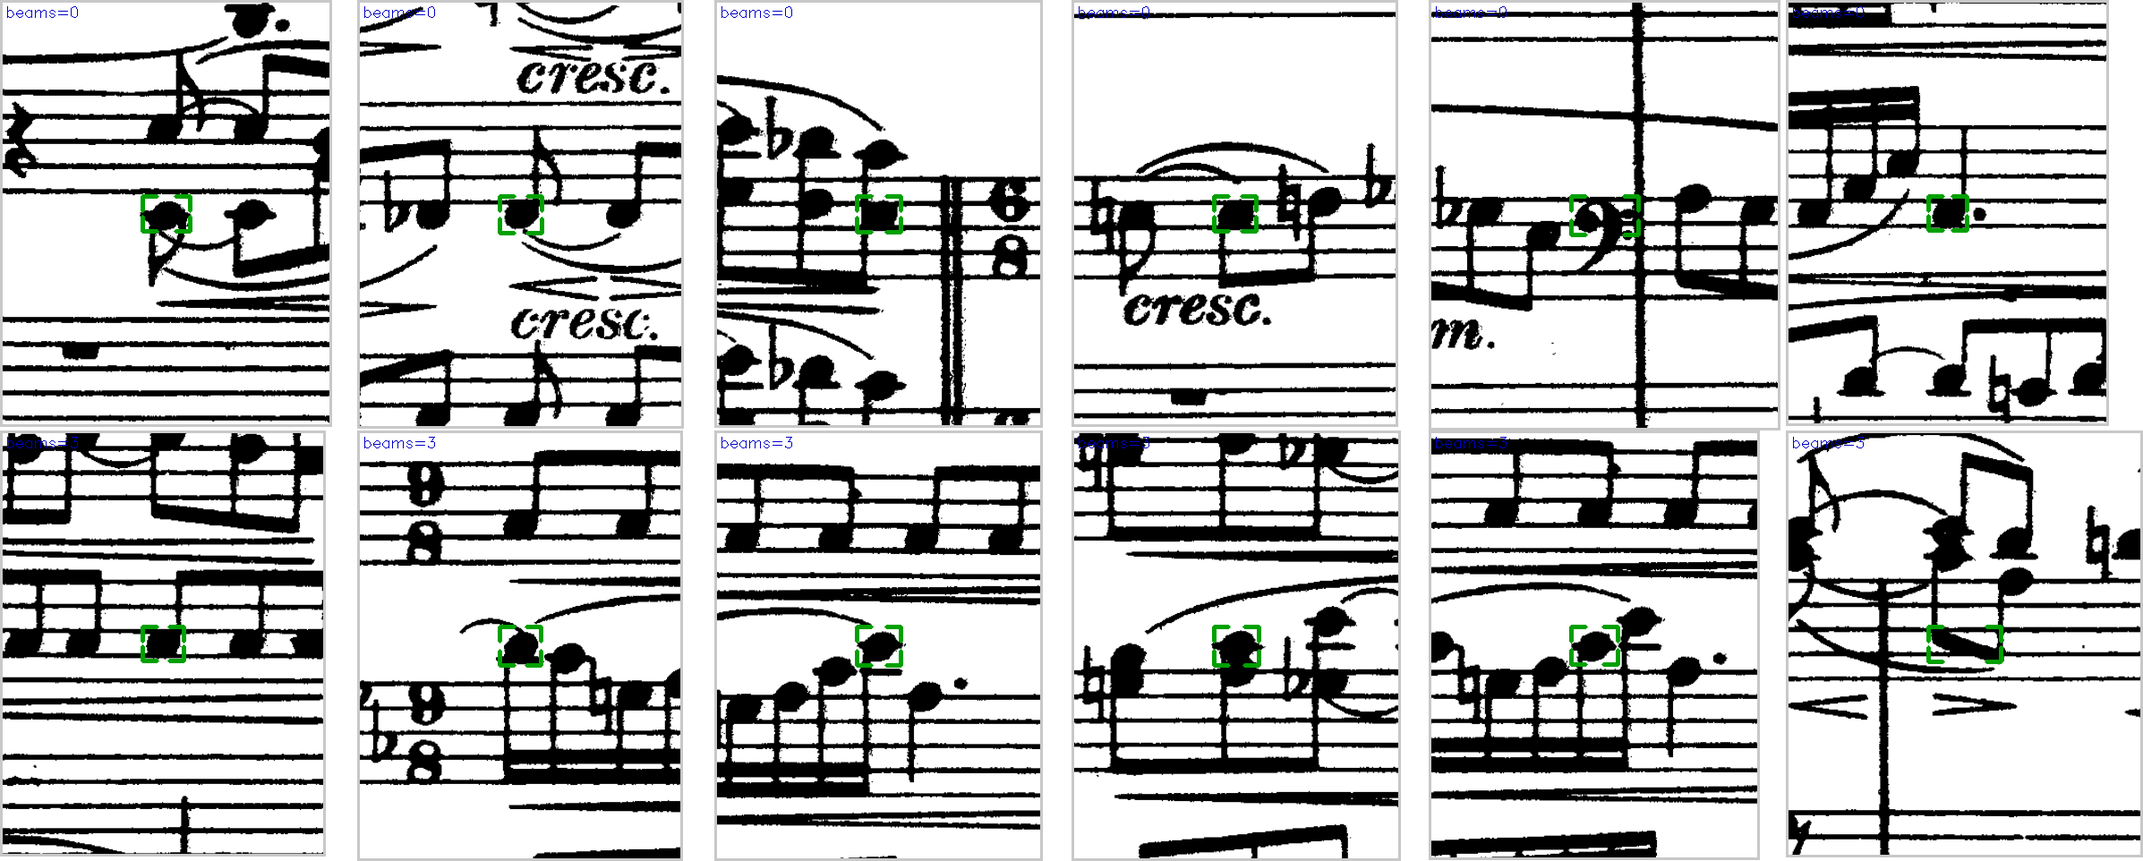
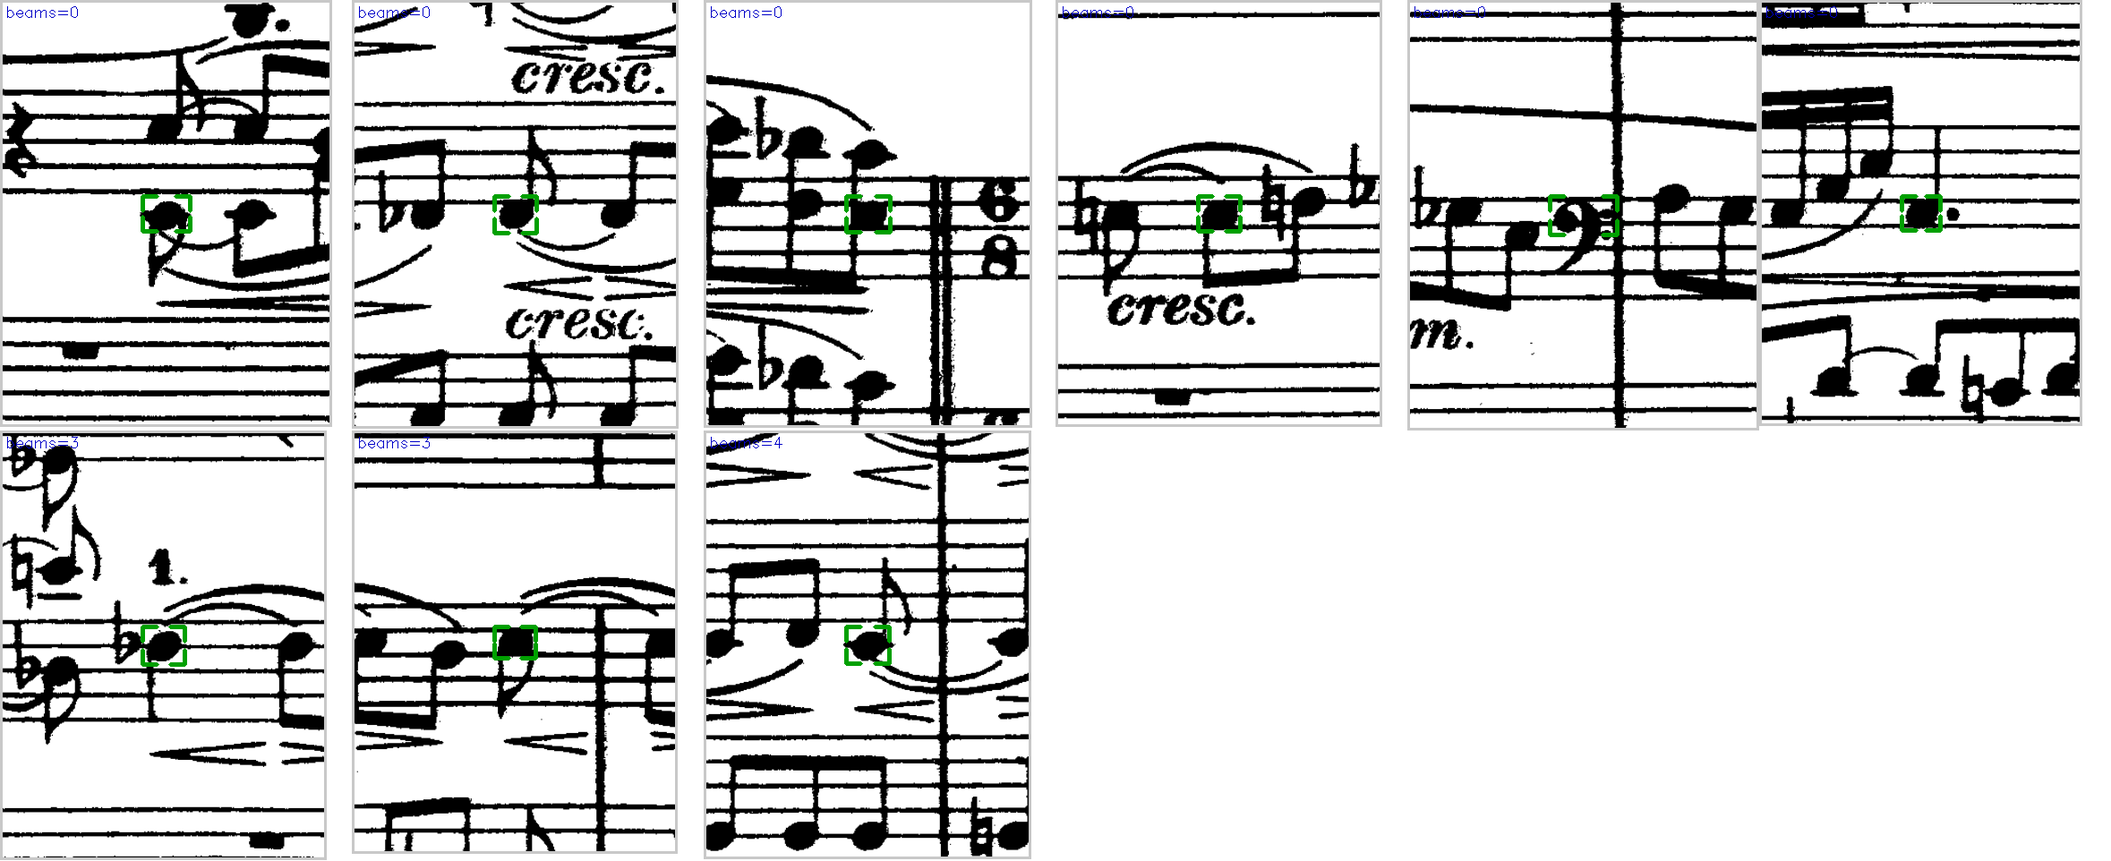
ROADMAP 2.38b: consult Q.BEAM_STEM_JOIN for CERTAIN strokes too
Follow-up print check after 2.38 merged (b2aa2fd1): of 165 duration
verdicts DECIDED using only NOT-JOINED beam witnesses on Brahms p1, the
final beam_levels were wrong at almost every count above 1 -- level 1
106 (~11/12 right), level 2 14 (6/6 wrong, single-beam 8ths read as
16ths), level 3-4 26 (nearly all wrong, 8ths/16ths read as 32nds), level
0 19 (about half wrong).

Cause: _beam_levels never consulted the ink witness for a CERTAIN stroke
(exact column overlap, or already stem-joined by box), by design, so the
ink reader could never override box-geometry certainty. But box-only
certainty can itself be wrong -- a stroke whose box happens to overlap
this stem's column is not proof it is this stem's own mark. Before 2.38,
an extra POSSIBLE stroke often kept possible > certain, so the note
stayed NARROWED despite the wrong certain count underneath; 2.38's own
NOT-JOINED fixes correctly dropped those extra possible strokes, exposing
the wrong certain counts as DECIDED, wrong, durations.

Fix: _beam_levels now returns a third element, certain_conflicts -- the
ids of any CERTAIN stroke whose Q.BEAM_STEM_JOIN witness reads NOT
JOINED. GATHER already files a row per (stem, stroke, end) for the whole
cross product in a cell, and _beam_join_witness already builds its
witness dict over every stroke regardless of branch, so no GATHER change
was needed. In adjudicate_duration, a non-empty certain_conflicts NARROWS
(beam_certain_not_joined, checked first) between the level as box
[…]

diff --git a/tools/omr/tests/test_staged_beam_stem_join.py b/tools/omr/tests/test_staged_beam_stem_join.py
@@ -416,41 +416,58 @@ class TestBeamLevelsWitness(unittest.TestCase):
 
     def test_no_witness_is_the_UNCHANGED_baseline(self):
         b = _padded_only_row()
-        certain, possible = rhythm._beam_levels([b], 150, 20, ())
-        self.assertEqual((certain, possible), (0, 1))
+        certain, possible, conflicts = rhythm._beam_levels([b], 150, 20, ())
+        self.assertEqual((certain, possible, conflicts), (0, 1, ()))
 
     def test_a_JOINED_witness_promotes_the_possible_stroke_to_certain(self):
         b = _padded_only_row()
-        certain, possible = rhythm._beam_levels(
+        certain, possible, conflicts = rhythm._beam_levels(
             [b], 150, 20, (), join_witness={"b1": True})
-        self.assertEqual((certain, possible), (1, 1))
+        self.assertEqual((certain, possible, conflicts), (1, 1, ()))
 
     def test_a_NOT_JOINED_witness_drops_the_stroke_entirely(self):
         b = _padded_only_row()
-        certain, possible = rhythm._beam_levels(
+        certain, possible, conflicts = rhythm._beam_levels(
             [b], 150, 20, (), join_witness={"b1": False})
-        self.assertEqual((certain, possible), (0, 0))
+        self.assertEqual((certain, possible, conflicts), (0, 0, ()))
 
     def test_a_DECLINED_witness_None_leaves_it_possible(self):
         b = _padded_only_row()
-        certain, possible = rhythm._beam_levels(
+        certain, possible, conflicts = rhythm._beam_levels(
             [b], 150, 20, (), join_witness={"b1": None})
-        self.assertEqual((certain, possible), (0, 1))
+        self.assertEqual((certain, possible, conflicts), (0, 1, ()))
 
-    def test_POSITIVE_CONTROL_an_already_CERTAIN_stroke_is_UNAFFECTED(self):
+    def test_POSITIVE_CONTROL_an_already_CERTAIN_stroke_COUNT_is_UNAFFECTED(self):
         """⚠ THE CONTROL. A stroke whose box already covers the centre, or
-        that a stem already joins, must not move whatever the witness says
-        -- box-geometry certainty is never overridden by this reader."""
+        that a stem already joins, must not move its COUNT whatever the
+        witness says -- box-geometry certainty is never silently overridden
+        (dropped or promoted) by this reader. A NOT-JOINED reading is
+        instead flagged in `certain_conflicts` (ROADMAP 2.38b) for the
+        caller to turn into a NARROW, never a count change here."""
         exact = _Row("b1", 100, 200)          # covers x_center=150 exactly
-        certain, possible = rhythm._beam_levels(
+        certain, possible, conflicts = rhythm._beam_levels(
             [exact], 150, 20, (), join_witness={"b1": False})
         self.assertEqual((certain, possible), (1, 1))
+        self.assertEqual(conflicts, ("b1",))
 
         stem_joined = _Row("b2", 400, 500)    # box FAR from the centre...
-        certain, possible = rhythm._beam_levels(
+        certain, possible, conflicts = rhythm._beam_levels(
             [stem_joined], 150, 20, (stem_joined,),   # ...but stem-joined
             join_witness={"b2": False})
         self.assertEqual((certain, possible), (1, 1))
+        self.assertEqual(conflicts, ("b2",))
+
+    def test_a_CERTAIN_stroke_JOINED_has_no_conflict(self):
+        exact = _Row("b1", 100, 200)
+        certain, possible, conflicts = rhythm._beam_levels(
+            [exact], 150, 20, (), join_witness={"b1": True})
+        self.assertEqual((certain, possible, conflicts), (1, 1, ()))
+
+    def test_a_CERTAIN_stroke_DECLINED_has_no_conflict(self):
+        exact = _Row("b1", 100, 200)
+        certain, possible, conflicts = rhythm._beam_levels(
+            [exact], 150, 20, (), join_witness={"b1": None})
+        self.assertEqual((certain, possible, conflicts), (1, 1, ()))
 
 
 # ─────────────────────────────────────────────────────────────────────────────
@@ -559,12 +576,16 @@ class TestBeamStemJoinWiresIntoDuration(unittest.TestCase):
         adjudicate.run(log)
         self.assertIn(join_row.id, log.verdict(Q.DURATION, g).basis)
 
-    def test_POSITIVE_CONTROL_a_box_CERTAIN_join_is_unmoved_by_the_ink(self):
-        """⚠ THE POSITIVE CONTROL. The identical stroke, but the stem now
-        physically reaches it (box overlap) -- already CERTAIN before this
-        lane existed -- and a CONTRADICTING ink witness (`found=False`) must
-        not move it: box-geometry certainty is never overridden by the ink
-        reader."""
+    def test_a_CERTAIN_join_the_ink_reads_NOT_JOINED_is_NARROWED(self):
+        """⚠⚠ THE BUG, ROADMAP 2.38b (manager print check of 3a5bbb67 /
+        b2aa2fd1 merged 2.38: Brahms p1, ~50 of 165 `duration` verdicts
+        decided using only a NOT-JOINED witness read the wrong
+        `beam_levels`). Before 2.38b this exact fixture DECIDED at the
+        CERTAIN count unconditionally -- a stroke a stem's own box happens
+        to overlap is not proof the ink agrees, and where it does not, the
+        box-only count may itself be the wrong one (a stray overlap with a
+        stroke that is not this stem's). Two witnesses disagreeing about a
+        CERTAIN stroke must NARROW, never decide either way (rule 8)."""
         log = Log()
         beam_row = _beam(log, y=40, x0=60, x1=140)
         g = R.glyph(0, 0, 0, 0, 0)
@@ -575,6 +596,46 @@ class TestBeamStemJoinWiresIntoDuration(unittest.TestCase):
         stem_row = _stem(log, x=135, y=38, h=60)     # 38..98: meets y=40
         _beam_stem_join(log, stem_row_id=stem_row.id, beam_row_id=beam_row.id,
                         end="top", found=False)
+        adjudicate.run(log)
+        v = log.verdict(Q.DURATION, g)
+        self.assertEqual(v.outcome, Outcome.NARROWED)
+        self.assertEqual(v.reason, "beam_certain_not_joined")
+        self.assertEqual(v.detail["certain_conflicts"], 1)
+        levels = sorted(c.value["beam_levels"] for c in v.candidates)
+        self.assertEqual(levels, [0, 1])   # with the stroke, and without it
+
+    def test_POSITIVE_CONTROL_a_CERTAIN_join_the_ink_JOINS_is_DECIDED(self):
+        """The same fixture, but the ink AGREES (`found=True`) -- no
+        disagreement, decides exactly as it always did."""
+        log = Log()
+        beam_row = _beam(log, y=40, x0=60, x1=140)
+        g = R.glyph(0, 0, 0, 0, 0)
+        log.observe(g, Q.NOTEHEAD_CLASS, "noteheadBlack",
+                    reader=READERS.DETECTOR, frame="cell:0", score=0.9)
+        log.observe(g, Q.GLYPH_BOX, ("noteheadBlack", 135, 90, 20, 16),
+                    reader=READERS.DETECTOR, frame="cell:0", score=0.9)
+        stem_row = _stem(log, x=135, y=38, h=60)
+        _beam_stem_join(log, stem_row_id=stem_row.id, beam_row_id=beam_row.id,
+                        end="top", found=True)
+        adjudicate.run(log)
+        v = log.verdict(Q.DURATION, g)
+        self.assertEqual(v.outcome, Outcome.DECIDED)
+        self.assertEqual(v.value["beats"], 0.5)
+        self.assertEqual(v.detail["levels_certain"], 1)
+
+    def test_POSITIVE_CONTROL_a_CERTAIN_join_NO_WITNESS_is_DECIDED(self):
+        """The same fixture, but GATHER never reached this pair (no
+        `Q.BEAM_STEM_JOIN` row at all, declined/absent) -- no evidence
+        either way, so box geometry alone still decides, same as always
+        (rule 8: declined never defaults, in EITHER direction)."""
+        log = Log()
+        beam_row = _beam(log, y=40, x0=60, x1=140)
+        g = R.glyph(0, 0, 0, 0, 0)
+        log.observe(g, Q.NOTEHEAD_CLASS, "noteheadBlack",
+                    reader=READERS.DETECTOR, frame="cell:0", score=0.9)
+        log.observe(g, Q.GLYPH_BOX, ("noteheadBlack", 135, 90, 20, 16),
+                    reader=READERS.DETECTOR, frame="cell:0", score=0.9)
+        _stem(log, x=135, y=38, h=60)
         adjudicate.run(log)
         v = log.verdict(Q.DURATION, g)
         self.assertEqual(v.outcome, Outcome.DECIDED)

diff --git a/tools/omr/staged/adjudicators/rhythm.py b/tools/omr/staged/adjudicators/rhythm.py
@@ -1192,33 +1192,50 @@ def _beam_levels(beams, x_center, width, joined=(), join_witness=None):
     the first opportunity.
 
     ⚠ ROADMAP 2.38: `join_witness` (`{stroke id: True/False/None}`, from
-    `_beam_join_witness`) is consulted ONLY for a stroke this test would
-    otherwise count as merely POSSIBLE (the padded column match, never the
-    exact-overlap or stem-joined ones -- CERTAIN stays certain on box
-    geometry alone, whatever the ink says, the positive control this rule
-    must never move). Where the ink-continuity reader says the stem's own
-    ink DOES run into this stroke, it is promoted to CERTAIN; where it says
-    it does NOT, the stroke is dropped from the count entirely (neither
-    certain nor possible -- rule 8's "count the level"/"drop it", never a
-    silent guess); where the reader never reached it (`None`), the stroke
-    stays exactly as box geometry alone would have called it, and the note
-    stays narrowed -- the same "declined never defaults" rule 8 states for
-    every other ink witness in this module.
+    `_beam_join_witness`) is consulted for a stroke this test would
+    otherwise count as merely POSSIBLE (the padded column match). Where the
+    ink-continuity reader says the stem's own ink DOES run into this
+    stroke, it is promoted to CERTAIN; where it says it does NOT, the
+    stroke is dropped from the count entirely (neither certain nor
+    possible -- rule 8's "count the level"/"drop it", never a silent
+    guess); where the reader never reached it (`None`), the stroke stays
+    exactly as box geometry alone would have called it, and the note stays
+    narrowed -- the same "declined never defaults" rule 8 states for every
+    other ink witness in this module.
+
+    ⚠⚠ ROADMAP 2.38b: A CERTAIN stroke (exact column overlap, or already
+    stem-joined by box) is NEVER dropped for a NOT-JOINED ink reading --
+    that was measured and refused (Brahms p1 print check: `duration`
+    verdicts DECIDED using only a NOT-JOINED witness read the wrong level
+    ~50 of 165 times, because dropping a CERTAIN stroke silently promoted
+    a WRONG box-only count -- some certain attributions were already wrong
+    before this lane existed, box overlap with a stroke that is not this
+    stem's, and only stayed NARROWED before because an extra, now-correctly
+    -dropped POSSIBLE stroke kept `possible > certain`). A certain stroke
+    the ink reads NOT JOINED is instead returned in `certain_conflicts` --
+    a DISAGREEMENT between two witnesses, which `adjudicate_duration`
+    turns into a NARROW (`beam_certain_not_joined`), never a silent count
+    change here. JOINED or declined (`None`) leaves a certain stroke
+    exactly as before -- unaffected, the positive control this rule must
+    never move.
     """
     joined_ids = {b.id for b in joined}
     if x_center is None:
         # ⚠ No box means no head to attach a stem to either, so `joined` is
         # empty here by construction -- it is read rather than assumed zero so
         # the two callers cannot drift apart.
-        return (len(joined_ids), len(joined_ids))
+        return (len(joined_ids), len(joined_ids), ())
     pad = (width or 0.0) * BEAM_EDGE_TOLERANCE_WIDTHS
     certain = possible = 0
+    certain_conflicts = []
     for b in beams:
         x0 = b.detail.get("x0", 0)
         x1 = b.detail.get("x1", 0)
         if b.id in joined_ids or x0 <= x_center <= x1:
             certain += 1
             possible += 1
+            if (join_witness or {}).get(b.id) is False:
+                certain_conflicts.append(b.id)
         elif x0 - pad <= x_center <= x1 + pad:
             witness = (join_witness or {}).get(b.id)
             if witness is True:
@@ -1228,7 +1245,7 @@ def _beam_levels(beams, x_center, width, joined=(), join_witness=None):
                 continue
             else:
                 possible += 1
-    return (certain, possible)
+    return (certain, possible, tuple(certain_conflicts))
 
 
 def _beam_join_witness(ev: Evidence, cell, kept, own_stems, side
@@ -1446,6 +1463,7 @@ def _stem_tip_flag_ink(ev: Evidence, cell, own_stems, side: Optional[str]
            Q.GLYPH_OWNER, Q.BEAM_STEM_JOIN),
     reasons=("head_and_marks", "beams_ambiguous", "flags_disagree",
              "flag_ink_unread", "beam_discounted_uncertain",
+             "beam_certain_not_joined",
              "head_fill_from_ink", "no_notehead",
              "unknown_head", "rest_class", "unreadable_rest",
              "rest_slot_contradicts_class", "rest_stands_where_no_rest_hangs"),
@@ -1574,8 +1592,8 @@ def adjudicate_duration(ev: Evidence) -> Ruling:
     join_witness, join_used = _beam_join_witness(ev, cell, kept, own_stems,
                                                  side)
     used.extend(r.id for r in join_used)
-    certain, possible = _beam_levels(kept, x_center, head_width, joined,
-                                     join_witness)
+    certain, possible, certain_conflicts = _beam_levels(
+        kept, x_center, head_width, joined, join_witness)
     # ⚠⚠ RULE 8: DROPPING A STROKE MAY NOT BY ITSELF MAKE A NOTE UNMARKED.
     # Where the strokes past the tip were the ONLY thing over this head, and
     # its stem carries no beam and no flag once they go, the note would fall
@@ -1592,8 +1610,8 @@ def adjudicate_duration(ev: Evidence) -> Ruling:
         join_witness, join_used = _beam_join_witness(ev, cell, kept,
                                                       own_stems, side)
         used.extend(r.id for r in join_used)
-        certain, possible = _beam_levels(kept, x_center, head_width, joined,
-                                         join_witness)
+        certain, possible, certain_conflicts = _beam_levels(
+            kept, x_center, head_width, joined, join_witness)
     levels = certain
     used.extend(b.id for b in kept)
     used.extend(s.id for s in attached)
@@ -1686,6 +1704,33 @@ def adjudicate_duration(ev: Evidence) -> Ruling:
               # head carries no flag, so a reader cannot mistake *no flag* for
               # *a flag with no direction*.
               **_flag_direction(ev, flags)}
+
+    # ⚠⚠ ROADMAP 2.38b, RULE 8, CHECKED FIRST. A CERTAIN stroke (box
+    # geometry) the ink reads NOT JOINED is a DISAGREEMENT between two
+    # independent witnesses, not a count to silently correct in either
+    # direction -- `_beam_levels`'s own docstring has the measured
+    # argument (Brahms p1: ~50 of 165 NOT-JOINED-only decisions were wrong
+    # beam_levels). NARROW between the level AS BOX GEOMETRY ALONE COUNTS
+    # IT (`certain`, unchanged) and the level WITHOUT the disputed
+    # stroke(s) (`certain` minus however many disagree) -- never straight
+    # to either, and EQUAL support: nothing here says which witness is
+    # right, only that they disagree.
+    if certain_conflicts:
+        disputed = len(certain_conflicts)
+        cands = []
+        for level in sorted({certain, max(certain - disputed, 0)}):
+            b = base / (2 ** level) if level else base
+            t, add = b, b
+            for _ in range(n_dots):
+                add /= 2.0
+                t += add
+            cands.append(Candidate(
+                value={"beats": _scale(t, ratio, ev), "written": t,
+                       "dots": n_dots, "beam_levels": level},
+                support=1.0))
+        return Ruling.narrow(cands, "beam_certain_not_joined",
+                             used=tuple(used), **shared,
+                             certain_conflicts=len(certain_conflicts))
 
     # ⚠ WHERE THE BEAM READING IS A RANGE, SO IS THE DURATION. Narrowing is
     # not a weaker answer than deciding -- it is the true one, and it is what

diff --git a/benchmarks/omr-duration-narrowed-2026-09/FINDINGS.md b/benchmarks/omr-duration-narrowed-2026-09/FINDINGS.md
@@ -594,5 +594,89 @@ OWN beam at that height) → the stroke must cover the stem's x. `3a5bbb67`:
 passed THROUGH the own beam) → a stem joins the FIRST stroke it meets.
 `1ad1c1ca`: Brahms p1 8/8 JOINED + 8/8 NOT JOINED correct (seed 11);
 Litolff p3 8/8 + 8/8 correct. Used counts, Brahms p1: joined→decided 209,
-not joined→decided 566; Litolff p3: 42 / 11. Not yet Sean-confirmed.
+not joined→decided 566; Litolff p3: 42 / 11. Sean confirmed the 32 crops;
+merged to main `b2aa2fd1`.
+
+### ROADMAP 2.38b — certain strokes get the join check too
+
+A FOLLOW-UP print check after the 2.38 merge (`levels_check.py`,
+`levels_check_12.py`, `out/print/beam-stem-ink-2.38/brahms_levels_check*
+.png`) found a consequence 2.38's own print checks never asked about: of
+165 `duration` verdicts DECIDED using ONLY NOT-JOINED beam witnesses, the
+final `beam_levels` were wrong at almost every count above 1 -- level 1
+→106 (≈11/12 right), level 2 →14 (6/6 WRONG, single-beam 8ths read as
+16ths), level 3-4 →26 (nearly all WRONG, 8ths/16ths read as 32nds), level
+0 →19 (≈half wrong, one a bass clef boxed as a head).
+
+**Cause**: `_beam_levels` never consulted `Q.BEAM_STEM_JOIN` for a
+CERTAIN stroke (exact column overlap, or already stem-joined by box) --
+by design, so the ink reader could never override box-geometry certainty
+(the positive control 2.38's own tests protect). But box-only certainty
+can itself be wrong: a stroke whose box happens to overlap this stem's
+column or `_stem_joined`'s box test is not proof it is THIS stem's own
+mark. Before 2.38, an extra POSSIBLE stroke often kept `possible >
+certain`, so the note stayed NARROWED (held) despite the wrong certain
+count sitting underneath, unseen; 2.38's own NOT-JOINED fixes correctly
+dropped those extra possible strokes, and doing so surfaced the
+underlying wrong certain counts as DECIDED, wrong, durations.
+
+**Fix** (`claude/beam-certain-join-2.38b`, off `origin/main`/`b2aa2fd1`,
+not merged): `_beam_levels` now returns a third element,
+`certain_conflicts` -- the ids of any CERTAIN stroke whose `Q.BEAM_STEM_
+JOIN` witness reads NOT JOINED. GATHER already files a row per (stem,
+stroke, end) for the WHOLE cross product in a cell (`_observe_beam_stem_
+join`, unconditional on whether ADJUDICATE will call a given pair
+certain or possible), and `_beam_join_witness` already builds its
+witness dict over every stroke in `kept` regardless of branch, so no
+GATHER change was needed -- only reading the witness that was already
+being computed and thrown away for the certain branch. In
+`adjudicate_duration`, any non-empty `certain_conflicts` NARROWS
+(`beam_certain_not_joined`, checked first, before `flags_disagree`)
+between the level AS BOX GEOMETRY COUNTS IT and the level WITHOUT the
+disputed stroke(s), EQUAL support (rule 8: nothing says which witness is
+right, only that they disagree) -- never decided either way, and the
+certain stroke is NEVER dropped outright (`_beam_levels` still counts it
+in `certain`/`possible` exactly as before; only the disagreement is
+surfaced).
+
+**Re-gathered Brahms p1** (`--through adjudicate`, same command, ~2 min):
+`beam_certain_not_joined` now abstains 102 `duration` verdicts. The
+NOT-JOINED-only population's own `beam_levels` distribution: level 1
+106→98, level 2 **14→3**, level 3-4 **26→3** (`levels_check.py`:
+`{'zero': 19, 'three+': 3}`; `levels_check_12.py`: `{'0': 19, '1': 98,
+'2': 3, '3': 2, '4': 1}`) -- total population 165→123. Level 0 is
+UNCHANGED (19) -- a different mechanism entirely (a possible-only stroke
+dropped by the ORIGINAL 2.38 fix, never a certain-branch conflict), out
+of this lane's scope; the one named bad case (a bass clef boxed as a
+notehead) is a detector-precision fault, not a beam-count one.
+
+**Eye-checked both regenerated crop sheets.** Level-1 crops (12): the
+large majority show a correctly single-beamed 8th, box on a real note
+inside that group. Level-2 crops (3, all that remain): still show what
+look like single-beam 8th groups by eye -- a SMALL RESIDUAL not caught by
+this fix, because these are not witness DISAGREEMENTS: box and ink
+apparently AGREE (both certain, both joined or declined) on what still
+looks like the wrong count by eye. That is a different, harder fault
+(both witnesses reading off the same raster and failing together --
+CLAUDE.md's own warning about two witnesses off one plate) and is named,
+not chased further here. Level 3-4 crops (3) show the same shape.
+
+**Tests**: 4 new/changed in `test_staged_beam_stem_join.py` (was 33, now
+37) -- `_beam_levels` unit tests updated to the 3-tuple and two new ones
+added (a certain stroke JOINED/DECLINED carries no conflict); at the full
+`adjudicate_duration` level, the EXISTING positive control (`test_
+POSITIVE_CONTROL_a_box_CERTAIN_join_is_unmoved_by_the_ink`) was ITSELF
+the bug, renamed and its assertion corrected to NARROWED with the new
+reason word, and two new positive controls added (certain+JOINED,
+certain+no-witness, both still DECIDED unchanged). RED confirmed against
+`b2aa2fd1`: 8 of 37 fail (7 on the widened `_beam_levels` return
+signature, 1 -- the renamed bug test -- on the actual behaviour, DECIDED
+where NARROWED is now required).
+
+`pytest -m "not slow" tools/omr/tests`: **3,972 passed / 3 skipped** on
+this branch (`origin/main`'s own 3,968 + this file's 4 net new tests, no
+other test file touched). `python3 -m tools.omr.staged.check`: **TOTAL
+245, unchanged from base** -- no new quantity, reader or detail key; the
+new reason word `beam_certain_not_joined` is declared in `Q.DURATION`'s
+own `reasons=(...)` tuple, same convention as every sibling reason.
 
